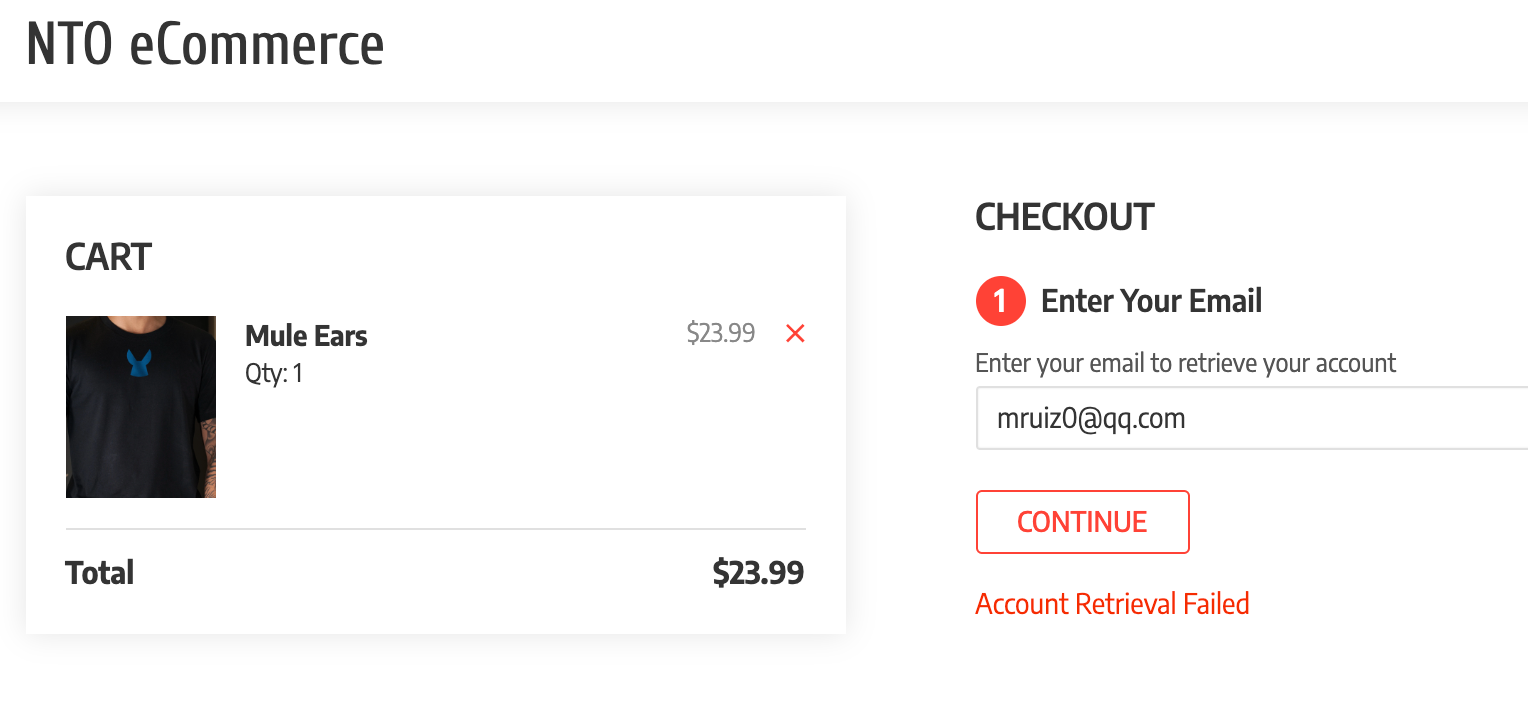
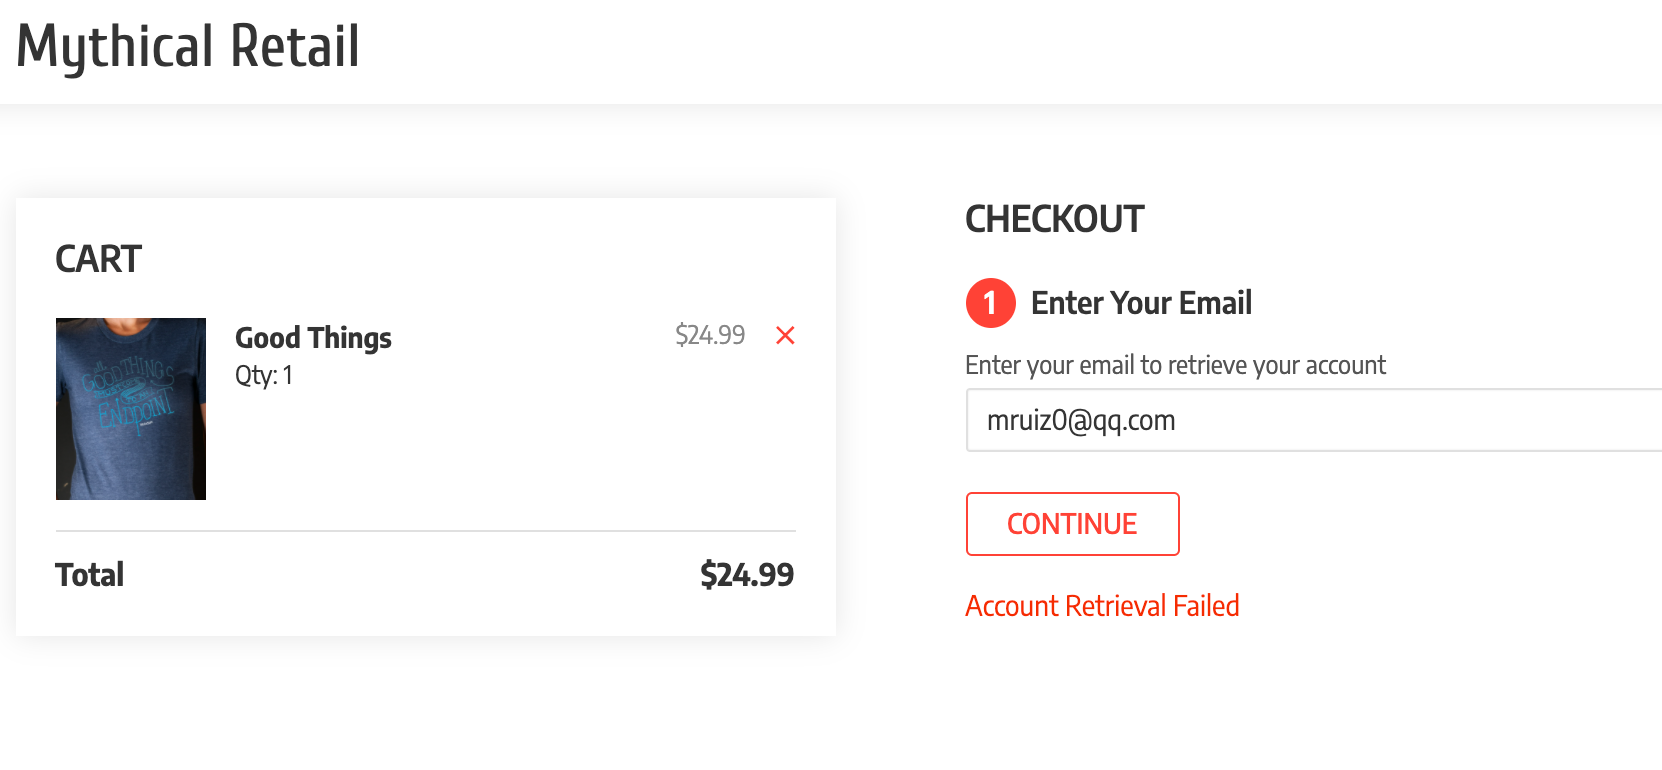
Update for GA release of ASM

diff --git a/README.md b/README.md
@@ -1,5 +1,5 @@
 ![](images/title.png)  
-Update: April 1, 2020
+Update: May 18, 2020
 
 ## Introduction
 
@@ -9,20 +9,44 @@ This cookbook will walk you through the process of installing **Anypoint Service
 
 ## Objectives
 
-- [Create Kubernetes cluster on Google Kubernetes Engine (GKE)](#installgke)
-- [Install Istio](#installistio)
-- [Deploy Demo Application](#deploydemo)
-- [Install Anypoint Service Mesh](#installasm)
-- [Apply API Management Policies](#applypolicy)
+- **[Create Kubernetes Google Kubernetes Engine (GKE)](#installaks)**
+    - [**STEP 1**: Create Google VPC](#step1)
+    - [**STEP 2**: Create Kubernetes Cluster](#step2)
+    - [**STEP 3**: Verify Cluster and Connect](#step3)
+
+- **[Install Istio](#installistio)**
+    - [**STEP 4**: Download and Install Istio CLI](#step4)
+    - [**STEP 5**: Install Istio using CLI](#step5)
+
+- **[Deploy Demo Application](#deploydemo)**
+    - [**STEP 6**: Clone Demo Application](#step6)
+    - [**STEP 7**: Deploy Demo Application](#step7)
+
+- **[Install Anypoint Service Mesh](#installasm)**
+    - [**STEP 8**: Install Anypoint Service Mesh](#step8)
+    - [**STEP 9**: Install Anypoint Service Mesh Adapter](#step9)
+    - [**STEP 10**: Create API's](#step10)
+    - [**STEP 11**: Binding API's with Services](#step11)
+
+- **[Apply API Management Policies](#applypolicy)**
+    - [**STEP 12**: Apply Rate Limiting Policy to Customer API](#step12)
+    - [**STEP 13**: Apply Client ID enforcement Policy to Payment API](#step13)
+- **[Report & Monitor API Analytics](#reportmonitoranalytics)**
+	- [**STEP 14:** View Analytics of Customer API & Payment API](#step14)
+	- [**STEP 15:** View Dashboards of Customer API & Payment API](#step15)
+
 
 ## Required Artifacts
 
 - The following lab requires a Google Cloud Platform account.
-- Enable Anypoint Service Mesh in your STGX Organization (this is required before GA)
+- Access to [Anypoint Platform](https://anypoint.mulesoft.com/)
+
+For complete instructions please visit [MuleSoft Documentation](https://docs.mulesoft.com/service-mesh/1.0/)
 
 <a id="installgke"></a>
 ## Create Google Kubernetes cluster
 
+<a id="step1"></a>
 ### **STEP 1**: Create Google VPC
 
 - From any browser, go to the URL to access Google Cloud Console:
@@ -43,6 +67,7 @@ This cookbook will walk you through the process of installing **Anypoint Service
 
     ![](images/image3.png)
 
+<a id="step2"></a>
 ### **STEP 2**: Create Kubernetes Cluster
 
 - Click on the upper left navigation bar. Select **Clusters**
@@ -55,7 +80,7 @@ This cookbook will walk you through the process of installing **Anypoint Service
 
     ![](images/image5.png)
 
-- Expand **default-pool** and select **Nodes**. Per [documentation](https://beta.docs.stgx.mulesoft.com/beta-service-mesh/service-mesh/1.0/prepare-to-install-service-mesh#hardware-requirements) change Machine type to **n1-standard-4**
+- Expand **default-pool** and select **Nodes**. Per [documentation](https://docs.mulesoft.com/service-mesh/1.0/prepare-to-install-service-mesh#hardware-requirements) change Machine type to **n1-standard-4**
 
     ![](images/image6.png)
 
@@ -67,6 +92,7 @@ This cookbook will walk you through the process of installing **Anypoint Service
 
     ![](images/image8.png)
 
+<a id="step3"></a>
 ### **STEP 3**: Verify Cluster and Connect
 
 - From the Kubernetes Cluster page click **Connect**. From the **Connect to the cluster** popup copy the **Command-line access** command.
@@ -88,6 +114,7 @@ kubectl get namespaces
 <a id="installistio"></a>
 ## Install Istio
 
+<a id="step4"></a>
 ### **STEP 4**: Download and Install Istio CLI
 
 - To install **Istio** we will be using the **Istio CLI**. For completed instructions [Istio Docs](https://istio.io/docs/setup/install/istioctl/)
@@ -95,7 +122,7 @@ kubectl get namespaces
 - Use the following command to download **Istio CLI** into your directory of choice. In this example I am using directory **/Users/dennis.foley/ASM**
 
 ```bash
-curl -L https://istio.io/downloadIstio | ISTIO_VERSION=1.4.3 sh -
+curl -L https://istio.io/downloadIstio | ISTIO_VERSION=1.5.2 sh -
 ```
 
 ![](images/image11.png)
@@ -103,7 +130,7 @@ curl -L https://istio.io/downloadIstio | ISTIO_VERSION=1.4.3 sh -
 - Change into newly downloaded directory
 
 ```bash
-cd istio-1.4.3/
+cd istio-1.5.2/
 ```
 
 - Add current directly to path
@@ -114,11 +141,41 @@ export PATH=$PWD/bin:$PATH
 
 ![](images/image12.png)
 
+<a id="step5"></a>
 ### **STEP 5**: Install Istio using CLI
 - To install **Istio** we will be using the **Istio CLI**. From the **istio** directory run the following command
 
+- First, create **istio-manifest.yaml** with the following content:
+
 ```bash
-istioctl manifest apply --set profile=demo --set values.global.disablePolicyChecks=false,values.pilot.policy.enabled=true
+apiVersion: install.istio.io/v1alpha1
+kind: IstioOperator
+spec:
+  profile: default
+  components:
+    policy:
+      enabled: true
+    sidecarInjector:
+      enabled: true
+    citadel:
+      enabled: true
+    telemetry:
+      enabled: true
+  addonComponents:
+    prometheus:
+      enabled: false
+  values:
+    global:
+      disablePolicyChecks: false
+    telemetry:
+      v1:
+        enabled: true
+      v2:
+        enabled: false
+```
+
+```bash
+istioctl manifest apply -f istio-manifest.yaml
 ```
 
 ![](images/image13.png)
@@ -134,9 +191,10 @@ kubectl get namespaces
 <a id="deploydemo"></a>
 ## Deploy Demo Application
 
+<a id="step6"></a>
 ### **STEP 6**: Clone Demo Application
 
-- For our demo application will will be using **Northern Trail Outfitters** shopping cart application. This web based UI will call several services to complete the order.
+- For our demo application will will be using **Mythical Retail** shopping cart application. This web based UI will call several services to complete the order.
 
 - Clone the demo application git repository onto your local machine.
 
@@ -153,12 +211,13 @@ ls
 
 ![](images/image15.png)
 
+<a id="step7"></a>
 ### **STEP 7**: Deploy Demo Application
 
-- We will now deploy the demo application to your kubernetes cluster. The deployment script takes the namespace as a parameter. We will be using **nto-payment** for namespace
+- We will now deploy the demo application to your kubernetes cluster. The deployment script takes the namespace as a parameter. We will be using **mythical-payment** for namespace
 
 ```bash
-./deployAll.sh nto-payment
+./deployAll.sh mythical-payment
 ```
 
 ![](images/image16.png)
@@ -166,8 +225,8 @@ ls
 - You can monitory the deployment with the following commands
 
 ```bash
-kubectl get pods -n nto-payment
-kubectl get services -n nto-payment
+kubectl get pods -n mythical-payment
+kubectl get services -n mythical-payment
 ```
 
 ![](images/image17.png)
@@ -194,6 +253,7 @@ http://<EXTERNAL-IP>:3000
 <a id="installasm"></a>
 ## Install Anypoint Service Mesh
 
+<a id="step8"></a>
 ### **STEP 8**: Install Anypoint Service Mesh
 
 For complete instructions and documentation please visit [MuleSoft Docs](https://beta.docs.stgx.mulesoft.com/beta-service-mesh/service-mesh/1.0/service-mesh-overview-and-landing-page)
@@ -212,18 +272,18 @@ kubectl -n istio-system get cm istio -o yaml | sed -e 's/disableMixerHttpReports
 curl -Ls http://anypoint.mulesoft.com/servicemesh/xapi/v1/install > asmctl && chmod +x asmctl
 ```
 
-- Since ASM is Pre-GA we will be using a staging environment. To have the **asmctl** connect to the correct environment set the variable **SERVICEMESH_PLATFORM_URI**
-
-```bash
-export SERVICEMESH_PLATFORM_URI=https://stgx.anypoint.mulesoft.com
-```
-
 - Now we are ready to install Anypoint Service Mesh. To do this we will call **asmctl install**. This command requires 3 parameters
     - Client Id
     - Client Secret
     - Service Mesh license
 
-- If you are not familiar with how to get environment Client Id and Secret please visit [MuleSoft Docs](https://docs.mulesoft.com/access-management/environments)
+- If you are not familiar with how to get environment Client Id and Secret, navigate to **API Manager** and click on the **Environment Information** button.
+
+- If you are not familiar with how to get environment Client Id and Secret, navigate to **API Manager** and click on the **Environment Information** button.
+
+![](images/image-env-info1.png)
+
+![](images/image-env-info2.png)
 
 ```bash
 ./asmctl install
@@ -239,6 +299,7 @@ kubectl get pods -n service-mesh
 
 ![](images/image22.png)
 
+<a id="step9"></a>
 ### **STEP 9**: Install Anypoint Service Mesh Adapter
 
 - Next we want to deploy the Anypoint Service Mesh adapter in each namespace that we want to monitor API's. For this example we will just be doing the **nto-payment** namespace that contains the demo application.
@@ -250,7 +311,7 @@ kubectl get pods -n service-mesh
 - Replace **```<CLIENT ID>```** and **```<CLIENT SECRET>```** with values for your environment. Save file and run the following command
 
 ```bash
-kubectl apply -f nto-payment-asm-adapter.yaml
+kubectl apply -f mythical-payment-asm-adapter.yaml
 ```
 
 ![](images/image24.png)
@@ -263,9 +324,61 @@ asmctl adapter list
 
 ![](images/image25.png)
 
-### **STEP 10**: Create APi's
+- After you provision the adapter, you must set the `istio-injection=enabled` label on the namespace by runnning the following command
+
+```bash
+kubectl label ns mythical-payment istio-injection=enabled --overwrite
+```
+
+- Redeploy all the existing applications in the namepsace. See Step 6.2 in [MuleSoft Docs](https://docs.mulesoft.com/service-mesh/1.0/provision-adapter-configure-service-mesh-CLI)
+
+```bash
+kubectl get deployments -n mythical-payment
+```
+
+```bash
+kubectl -n mythical-payment patch deploy customer-app --type=json -p='[{"op": "replace", "path": "/spec/template/metadata/labels/service-mesh.mulesoft.com","value":"enable"}]'
+```
+
+```bash
+kubectl -n mythical-payment patch deploy inventory-app --type=json -p='[{"op": "replace", "path": "/spec/template/metadata/labels/service-mesh.mulesoft.com","value":"enable"}]'
+```
+
+```bash
+kubectl -n mythical-payment patch deploy order-app --type=json -p='[{"op": "replace", "path": "/spec/template/metadata/labels/service-mesh.mulesoft.com","value":"enable"}]'
+```
+
+```bash
+kubectl -n mythical-payment patch deploy payment-app --type=json -p='[{"op": "replace", "path": "/spec/template/metadata/labels/service-mesh.mulesoft.com","value":"enable"}]'
+```
+
+```bash
+kubectl -n mythical-payment patch deploy service-mesh-ui --type=json -p='[{"op": "replace", "path": "/spec/template/metadata/labels/service-mesh.mulesoft.com","value":"enable"}]'
+```
+
+```bash
+kubectl get pods -n mythical-payment
+```
+
+![](images/image25.5.png)
+
+- Verify the Envoy sidecar is injected within each pod in the Kubernetes Cluster by running the following command
+
+```bash
+asmctl management check sidecar --namespace=mythical-payment
+```
+
+![](images/image25.7.png)
+
+<a id="step10"></a>
+### **STEP 10**: Create API's
 
 - We will now use now use Anypoint Service Mesh auto discovery to create API's in Anypoint Platform. We will create API's for Customer, Inventory, Order and Payments services that are used by the demo application.
+
+- Before creating the APIs, ensure the Anypoint Platform user has **API Manager Environment Administrator** permission, in addition to **Manage APIs Configuration**. This can be done by your organization admin in **Access Management*.
+
+![](images/image-service-user-permissions.png)
+ 
 
 - Modify the Kubernetes custom resource definition (CRD) file **demo-apis.yaml**. 
 
@@ -291,6 +404,7 @@ asmctl api list
 
     ![](images/image28.png)
 
+<a id="step11"></a>
 ### **STEP 11**: Binding API's with Services
 
 - The last step is to bind the Kubernetes Services with the Anypoint Platform API's. To do this you will use the binding definition file **demo-bind-apis.yaml**. Execute the following command
@@ -317,6 +431,7 @@ asmctl api binding list
 <a id="applypolicy"></a>
 ## Apply API Management Policies
 
+<a id="step12"></a>
 ### **STEP 12**: Apply Rate Limiting Policy to Customer API
 
 - From the **API Management** Screen in Anypoint Platform click on the version number for **customer-api**
@@ -337,9 +452,9 @@ asmctl api binding list
 
 - Before moving onto the next step remove the **Rate Limiting** policy.
 
-### **STEP 13**: Apply Client ID enforcement Policy to Payment API
+<a id="step13"></a>
+### **STEP 13** Apply Client ID enforcement Policy to Payment API
 
-- Navigate back to the ***API Administration** page. Click on the version number for **payment-api**.
 
 - Click **Policies** and then click **Apply New Policy**. Expand **Client ID enforcement** select newest version and click **Configure Policy**. 
 
@@ -351,7 +466,46 @@ asmctl api binding list
 
     ![](images/image37.png)
 
-**CONGRATULATIONS!!!** You have completed install Anypoint Service Mesh and applying policies to kubernetes services via Anypoint Platform.
+
+<a id="reportmonitoranalytics"></a>
+## Report & Monitor API Analytics
+
+<a id="step14"></a>
+### **STEP 14**: View Analytics Reports Dashboards of Customer API & Payment API
+
+- From **API Manager**, click on **Analytics** on the left.
+
+![](images/image51.png)
+
+- At the top, select the desired date range, filter by the APIs, and check **Include Policy Violations**
+
+![](images/image52.png)
+
+- You can also build a report for API Analytics collected from service-service communication. The API Analytics provides insights into health of managed APIs - status code, policy violations, response time and such.  
+Follow [MuleSoft API Analytics Documentation](https://docs.mulesoft.com/api-manager/2.x/analytics-event-api#creating-a-report) to create an API Analytics report for all APIs and review if APIs are working as expected.
+
+![](images/image53.png)
+
+- Click on *Run* of the report, you could download the report in the browser or view the report usring curl with the report URL to look at more details.
+
+![](images/image54.png)
+[Violated Policy Name.csv](Violated%20Policy%20Name.csv)
+
+<a id="step15"></a>
+### **STEP 15**: View Dashboards of Customer API & Payment API
+- Navigate to the **Anypoint Monitoring** from either Anypoint Platform home page, or the hamburger menu at the top left corner.
+
+- You can click on **Built-in dashboards** on the left to check out what's populated for the Customer & Payment APIs. In the drop-down, choose the **environment**, **resource name**, and the **API version / Instance**, and click on **View**. 
+
+![](images/image48.png)
+
+- At the top right corner of the dashboard, adjust the time period and turn on Auto-Refresh for **Customer API**. 
+
+![](images/image49.png)
+
+- Repeat the above and choose **Payment API** this time and check out its Analytics as well. 
+
+![](images/image50.png)
 
 
-
+**CONGRATULATIONS!!!** You have completed installing Anypoint Service Mesh, applying policies to kubernetes services, reporting and monitoring the analytics of these non-Mule services via Anypoint Platform.
